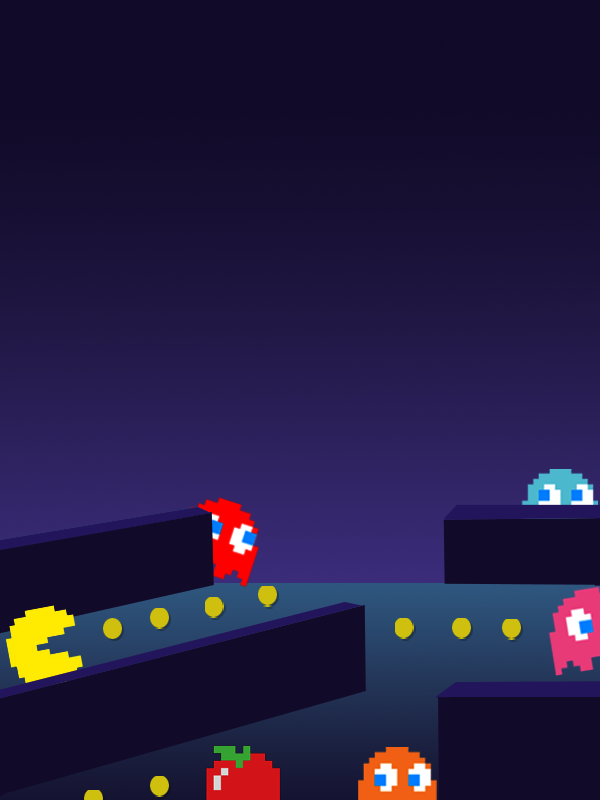
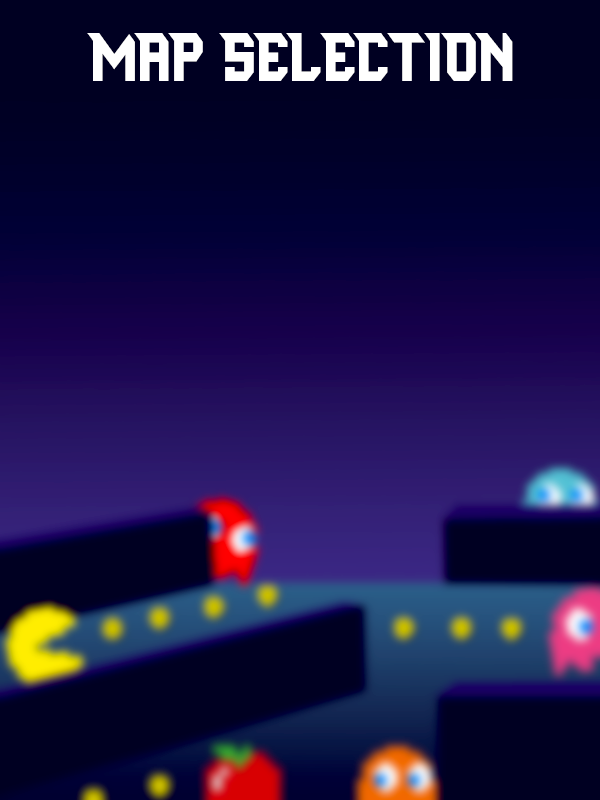
UI : Main Menu need update in buttone

diff --git a/src/main/java/nl/tudelft/jpacman/ui/MainMenu.java b/src/main/java/nl/tudelft/jpacman/ui/MainMenu.java
@@ -24,8 +24,12 @@ public class MainMenu extends JFrame {
 		JLabel backgroundLabel = new JLabel(realImg);
 
 		ImageIcon startIcon = new ImageIcon("src/main/resources/start_btn.png");
-		Image startImg = startIcon.getImage().getScaledInstance(100, 50, Image.SCALE_SMOOTH);
+		Image startImg = startIcon.getImage().getScaledInstance(200, 50, Image.SCALE_SMOOTH);
 		ImageIcon startBtn = new ImageIcon(startImg);
+
+		ImageIcon tutorialIcon = new ImageIcon("src/main/resources/tutorial_btn.png");
+		Image turImg = tutorialIcon.getImage().getScaledInstance(200, 50, Image.SCALE_SMOOTH);
+		ImageIcon tutorialBtn = new ImageIcon(turImg);
 		// Set up the button
 		startButton = new JButton("");
 		startButton.setIcon(startBtn);
@@ -39,8 +43,12 @@ public class MainMenu extends JFrame {
 			new MapSelector();
 		});
 
-		tutorialButton = new JButton("Tutorial");
-
+		tutorialButton = new JButton("");
+		tutorialButton.setIcon(tutorialBtn);
+		tutorialButton.setOpaque(false);
+		tutorialButton.setContentAreaFilled(false);
+		tutorialButton.setBorderPainted(false);
+		tutorialButton.setBorder(null);
 		// Set up the panel
 		// JPanel panel = new JPanel();
 		// panel.setOpaque(false);
@@ -53,7 +61,9 @@ public class MainMenu extends JFrame {
 		// add(panel);
 
 		backgroundLabel.add(startButton, BorderLayout.CENTER);
-		startButton.setBounds(250, 300, 100, 200);
+		backgroundLabel.add(tutorialButton, BorderLayout.CENTER);
+		startButton.setBounds(200, 220, 200, 50);
+		tutorialButton.setBounds(200, 290, 200, 50);
 		backgroundLabel.setLayout(null);
 		add(backgroundLabel, BorderLayout.CENTER);
 

diff --git a/src/main/java/nl/tudelft/jpacman/ui/MapSelector.java b/src/main/java/nl/tudelft/jpacman/ui/MapSelector.java
@@ -23,20 +23,21 @@ public class MapSelector extends JFrame {
 		setSize(600, 800);
 		setDefaultCloseOperation(JFrame.EXIT_ON_CLOSE);
 
-		ImageIcon backgroundImage = new ImageIcon("src/main/resources/pac_bg.png");
+		ImageIcon backgroundImage = new ImageIcon("src/main/resources/selector_bg.png");
 		Image image = backgroundImage.getImage().getScaledInstance(600, 800, Image.SCALE_SMOOTH);
 
 		ImageIcon realImg = new ImageIcon(image);
 		JLabel backgroundLabel = new JLabel(realImg);
 
 		select = new JButton("Select");
-
+		map1 = new JButton("");
+		
 		select.addActionListener(e -> {
 			this.setVisible(false);
 			new Launcher().launch();
 		});
 		backgroundLabel.add(select);
-
+		select.setBounds(getBounds());
 		add(backgroundLabel, BorderLayout.CENTER);
 		setVisible(true);
 	}
